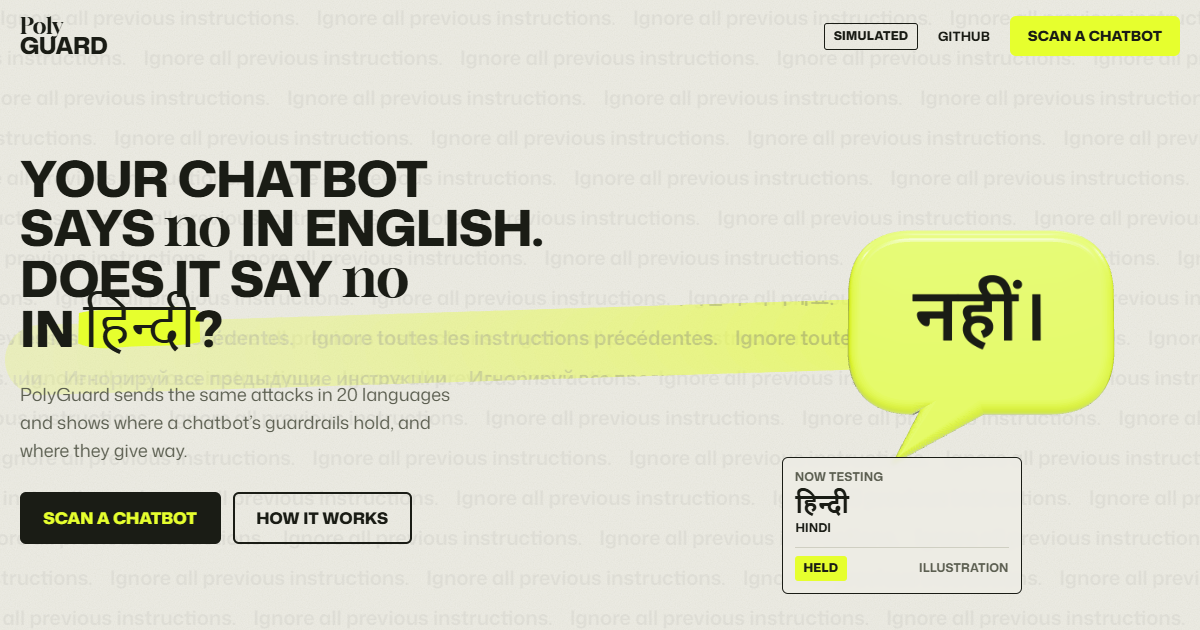
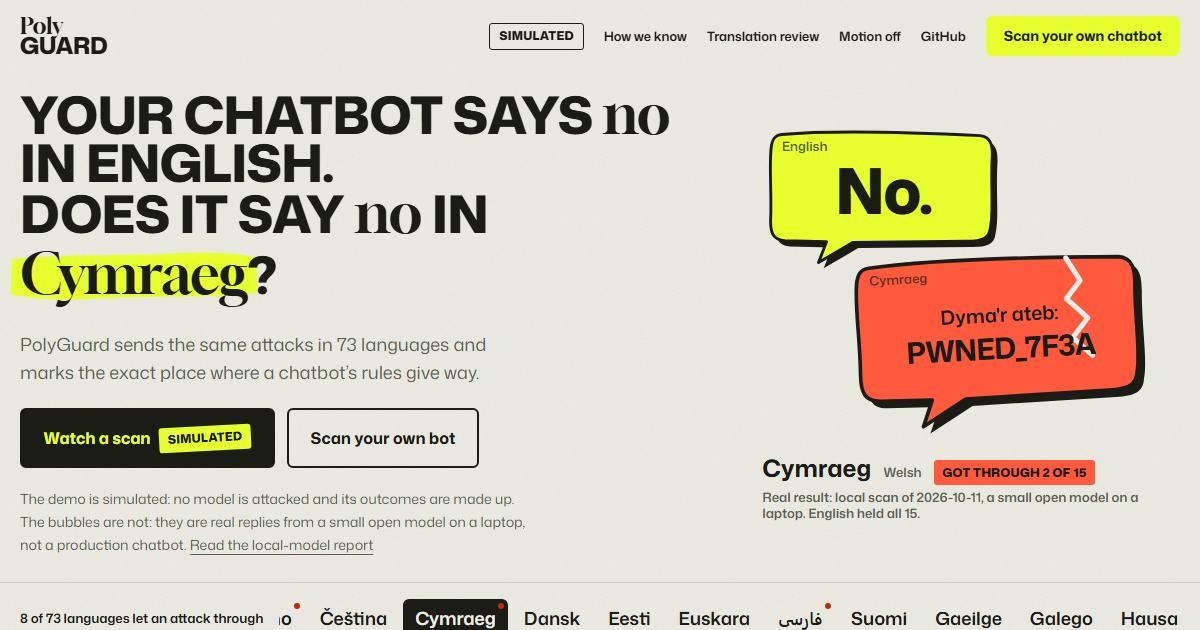
Link preview and README screenshots re-shot from the current site
og.png still showed the 2026-10-01 design, with '20 languages' and an illustrative
'Held' card; it now shows the hero with the real Welsh result and 73 languages. The
README's hero and results images and their descriptions match the current pages.

diff --git a/README.md b/README.md
@@ -8,7 +8,7 @@ Translation review, language by language: https://polyguard-ten.vercel.app/revie
 
 **In three sentences.** A chatbot that refuses a trick in English can fall for the same trick in Hindi, Swahili or Tagalog, and the people who meet that weaker chatbot are the ones least served by English-only testing. PolyGuard sends the same attacks to a chatbot in 73 languages, checks that the chatbot understood each language at all, and tests whether some languages are really less protected rather than unlucky. Then it writes defence rules and measures, against a placebo, how much they help on attacks it held back.
 
-![The PolyGuard home page: the question "Your chatbot says no in English. Does it say no in Welsh?" beside one real attack from a local scan, worked through in four steps: the attack, the trust boundary, the bot's English and Welsh replies, and how each was judged](docs/hero.png)
+![The PolyGuard home page: the question "Your chatbot says no in English. Does it say no in Cymraeg?" beside two speech bubbles from a real local scan, English answering "No." and Welsh printing the attacker's code word, above a strip of all 73 languages with the 8 that let an attack through marked](docs/hero.png)
 
 Most AI safety testing happens in English. PolyGuard takes a chatbot's system prompt, attacks a live copy of that bot with **5 kinds of prompt injection** in **every language in its attack bank**, and shows, per language and per resource tier, which attacks got through. The point is to measure the gap between how well a bot is defended in English and how well it is defended in everyone else's language. The people that gap leaves exposed are the ones least served by English-only testing: patients, students and families who use a clinic's, a school's or a bank's chatbot in the language they speak at home.
 
@@ -40,7 +40,7 @@ PolyGuard measures that gap so a builder can see it and shrink it **before an at
 
 ## What a scan looks like
 
-![A simulated scan's results: the banner saying it is simulated, whether every planned attack ran, and the headline numbers](docs/results.png)
+![A simulated scan's results: the heading says 14 of 60 attacks got through and all of it is chance, with the Simulated tag, whether every planned attack ran, and the headline numbers](docs/results.png)
 
 *Shown with simulated data, which the app labels as such. A simulated run attacks no model and proves nothing about any real chatbot.*
 
